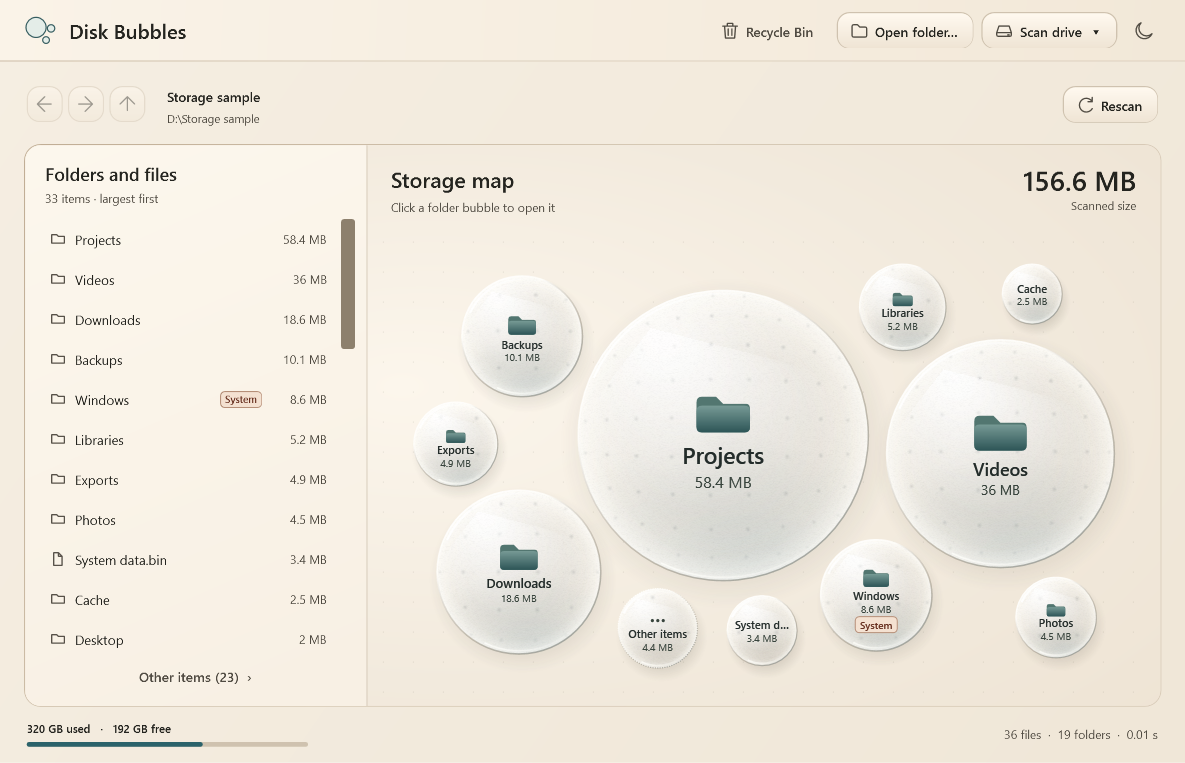
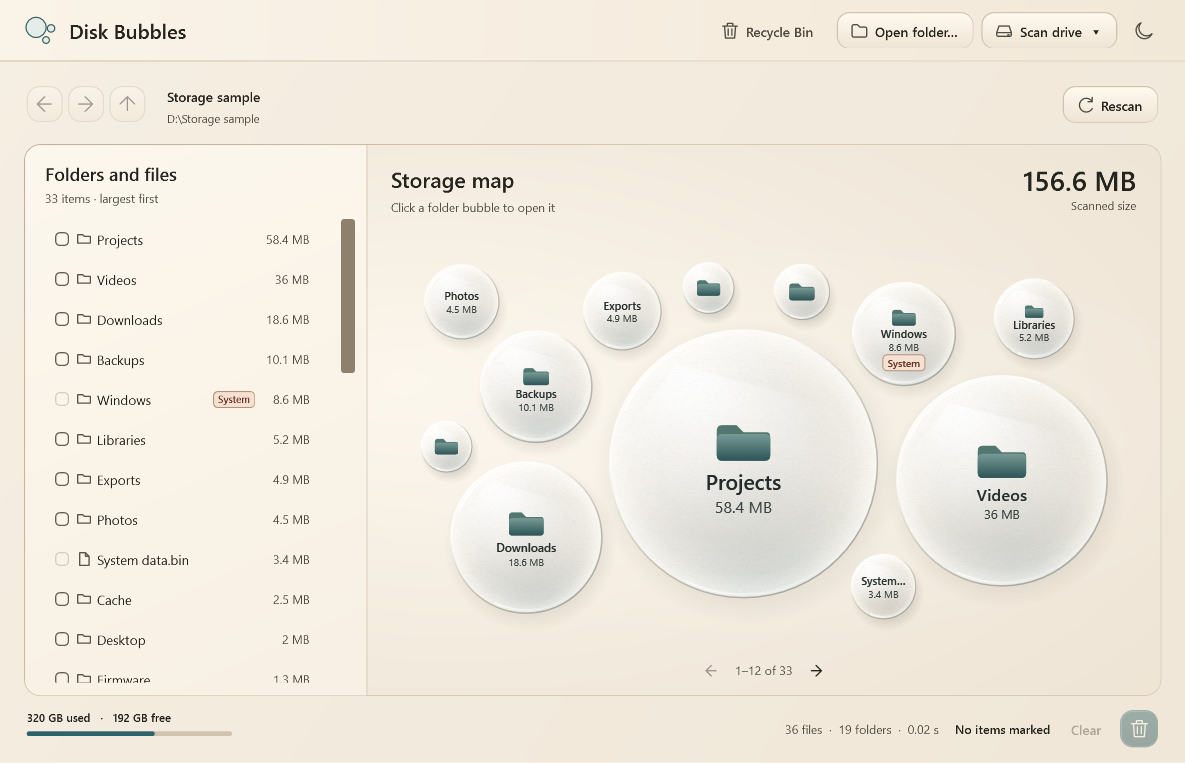
feat: prepare the 10.1.0 Windows preview

diff --git a/src/DiskBubbles/App.cs b/src/DiskBubbles/App.cs
@@ -7,9 +7,9 @@ using System.Windows;
 [assembly: AssemblyTitle("Disk Bubbles")]
 [assembly: AssemblyProduct("Disk Bubbles")]
 [assembly: AssemblyDescription("Interactive disk usage map for Windows")]
-[assembly: AssemblyVersion("10.0.1.0")]
-[assembly: AssemblyFileVersion("10.0.1.0")]
-[assembly: AssemblyInformationalVersion("10.0.1")]
+[assembly: AssemblyVersion("10.1.0.0")]
+[assembly: AssemblyFileVersion("10.1.0.0")]
+[assembly: AssemblyInformationalVersion("10.1.0")]
 [assembly: TargetFramework(".NETFramework,Version=v4.8")]
 
 namespace DiskBubbles

diff --git a/README.md b/README.md
@@ -2,7 +2,7 @@
 
 Disk Bubbles shows where your Windows storage went. Scan a drive or folder and get a map sized by the files inside it. The biggest folders are easy to spot, and a click takes you straight into one.
 
-[Download for Windows](https://github.com/tiwaritarush/disk-bubbles/releases/tag/v10.0.1) · [Build from source](#build-from-source) · [Report an issue](https://github.com/tiwaritarush/disk-bubbles/issues)
+[Download for Windows](https://github.com/tiwaritarush/disk-bubbles/releases) · [Build from source](#build-from-source) · [Report an issue](https://github.com/tiwaritarush/disk-bubbles/issues)
 
 ![Disk Bubbles in dark mode. A list of folders sits beside a map of circles sized by storage use.](docs/screenshots/dark.png)
 
@@ -11,17 +11,17 @@ Windows can tell you that a drive is nearly full. Figuring out which project, do
 ## What you can do
 
 - **Scan a drive or folder.** See progress as Windows enumerates the files. You can cancel a scan and return to your previous results.
-- **Explore by size.** Click a folder bubble to open it, or double-click the folder in the list. Hover for its size and share of the current folder. Back and Forward remember your scroll position and the **Other items** filter.
-- **Review files before recycling.** Choose a few items and see what Windows can verify before you confirm. The app flags protected Windows locations and checks file identities again before asking the Shell to move anything.
+- **Explore by size.** Click a folder in the list or on the map to open it. Hover to see its size and share of the current folder. Use the map arrows to see smaller entries, including empty ones. Back and Forward remember your scroll position and map page.
+- **Mark items as you browse.** Check files or folders anywhere in the scan. Use the trash icon at the bottom right to review everything together. The app protects critical Windows locations and verifies file identities before asking Windows to move anything.
 - **Switch between light and dark.** The beige and graphite themes are included, and the app remembers your choice. Motion follows the Windows animation setting.
 
 ![Disk Bubbles in beige light mode with frosted glass bubbles.](docs/screenshots/light.png)
 
 ## Run it
 
-Get `DiskBubbles.exe` from the [release page](https://github.com/tiwaritarush/disk-bubbles/releases/tag/v10.0.1) and run it on Windows 10 or 11 with .NET Framework 4.8 or later. It runs with your usual Windows permissions. The portable executable is unsigned, and the release includes a SHA-256 checksum for checking the download.
+Get `DiskBubbles.exe` from the [releases page](https://github.com/tiwaritarush/disk-bubbles/releases) and run it on Windows 10 or 11 with .NET Framework 4.8 or later. It runs with your usual Windows permissions. The portable executable is unsigned, and the release includes a SHA-256 checksum for checking the download.
 
-Start with **Scan C:** or **Choose folder**. In the file list, press **Enter** to open the selected folder. Use **Alt+Left**, **Alt+Right**, and **Alt+Up** to navigate. Select a file and choose **Show in File Explorer** to see it in context.
+Start with **Scan drive** or **Open folder**. Press **Enter** on a row to open its folder or reveal its file in File Explorer. Use **Alt+Left**, **Alt+Right**, and **Alt+Up** to navigate. A new scan starts a fresh set of marks.
 
 The map shows logical file sizes. The space a file takes up on disk can differ, especially for compressed, sparse, or hard-linked files. The capacity meter uses the space Windows reports for your account. Scan results stay in memory, and Disk Bubbles sends no telemetry.
 

diff --git a/docs/architecture.md b/docs/architecture.md
@@ -4,12 +4,12 @@
 
 ## From drive to map
 
-`DiskScanner` assigns directory work to several workers. `NativeDirectoryReader` reads 64 KiB batches of Windows directory records. The scanner adds up subfolders after traversal and orders the root and large lists on the worker. Small lists are sorted on first use. `BubbleMap` draws up to eleven circles, with area proportional to the item size. Remaining entries can be inspected through **Other items** or directly in the file list.
+`DiskScanner` assigns directory work to several workers. `NativeDirectoryReader` reads 64 KiB batches of Windows directory records. The scanner adds up subfolders after traversal and orders the root and large lists on the worker. Small lists are sorted on first use. `BubbleMap` draws up to twelve circles per page. Area represents size relative to the largest item on that page, with a minimum to keep small and zero-byte entries visible. WPF animates the cached map drawings during navigation.
 
 Scans observe a live filesystem. Entries can change while a directory is being read, so the map is a view of what the scanner observed during that run. Reparse points discovered during enumeration and unreadable entries are counted as skipped.
 
 ## From review to Recycle Bin
 
-The review flow checks the selected path and file identity. Folders also get a fingerprint of descendant identities and timestamps. The app rechecks these before transfer, then asks Windows to recycle the verified item through `ITransferSource::RecycleItem`. It applies a change to the map when the Shell confirms it and prompts for a rescan when the result is uncertain.
+Marks belong to a scan and carry the item's original folder path. Review collapses nested marks under a marked parent to avoid moving or counting them twice. It checks each proposed move against the selected path and file identity. Folders also get a fingerprint of descendant identities and timestamps. The app rechecks these before asking Windows to recycle the verified item through `ITransferSource::RecycleItem`. It updates the affected folders when the Shell confirms a move and prompts for a rescan when the result is uncertain.
 
 The Windows transfer uses a pathname. A file can still change between the last identity check and the Shell operation. The verification fixture exercises replacement before that boundary and simulates a confirmed transfer to check the resulting map state. [Windows RecycleItem](https://learn.microsoft.com/en-us/windows/win32/api/shobjidl_core/nf-shobjidl_core-itransfersource-recycleitem)

diff --git a/CHANGELOG.md b/CHANGELOG.md
@@ -1,5 +1,13 @@
 # Changelog
 
+## 10.1.0
+
+- Open folders with one click in the list or on the map. The zoom follows the bubble, with shorter transitions and a reflection that follows the pointer.
+- Mark files and folders across the current scan, then review them together from the trash icon in the footer. Parent folders cover their marked descendants in review.
+- Page through every item on the map, including small and zero-byte entries. Going back restores the last map page and list scroll position.
+
+The disposable fixture verifies the review list and simulates a confirmed move across folders. Windows denied the live Shell transfer in the test environment and the disposable file remained in place.
+
 ## 10.0.1
 
 First GitHub preview. Includes the portable Windows executable, published source, screenshots, and a reproducible build and verification workflow. The recycle guard also checks that the resolved filename retains the exact spelling and casing selected in the app.
